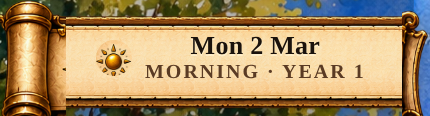
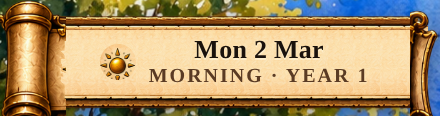
Put carved scroll work on top of the parchment.
Punch the paper out of the rollers and rails so those sit over a real
parchment layer, with the date, Journal, and place labels written on
that paper in the window.

diff --git a/index.html b/index.html
@@ -436,23 +436,23 @@ button,select{font-family:system-ui;background:#6a5949;color:#fff;border-color:#
 <section id="visualShell">
   <div class="worldTopbar">
     <button type="button" id="advanceTime" class="scrollPlaque" aria-label="Pass time">
-      <img class="scrollCap scrollCap-left" src="./assets/ui/date_frame_left.png" alt="">
-      <span class="scrollWell">
+      <span class="scrollPaper">
         <img class="scrollSun" src="./assets/ui/date_frame_probe_sun.png" alt="">
         <span class="scrollCopy"><b id="visualDate">Monday, 2 March · Year 1</b><span id="visualPhase" class="small">Morning</span></span>
-        <span class="scrollFrame" aria-hidden="true"></span>
       </span>
-      <img class="scrollCap scrollCap-right" src="./assets/ui/date_frame_right.png" alt="">
+      <img class="scrollCap scrollCap-left" src="./assets/ui/date_frame_left_cutout.png" alt="">
+      <span class="scrollRail" aria-hidden="true"></span>
+      <img class="scrollCap scrollCap-right" src="./assets/ui/date_frame_right_cutout.png" alt="">
     </button>
     <div class="worldActions">
       <button id="worldRecord" class="scrollPlaque scrollPlaque-sm" type="button" aria-label="Open journal">
-        <img class="scrollCap scrollCap-left" src="./assets/ui/date_frame_left.png" alt="">
-        <span class="scrollWell">
+        <span class="scrollPaper">
           <span id="worldRecordLabel">Journal</span>
           <span id="worldRecordBadge" class="worldRecordBadge hidden"></span>
-          <span class="scrollFrame" aria-hidden="true"></span>
         </span>
-        <img class="scrollCap scrollCap-right" src="./assets/ui/date_frame_right.png" alt="">
+        <img class="scrollCap scrollCap-left" src="./assets/ui/date_frame_left_cutout.png" alt="">
+        <span class="scrollRail" aria-hidden="true"></span>
+        <img class="scrollCap scrollCap-right" src="./assets/ui/date_frame_right_cutout.png" alt="">
       </button>
     </div>
   </div>
@@ -470,15 +470,15 @@ button,select{font-family:system-ui;background:#6a5949;color:#fff;border-color:#
     <button id="eventHotspot" class="worldObject eventHotspot hidden">Saturday Open</button>
   </div>
   <nav class="locationStrip scrollPlaque scrollPlaque-wide" id="locationStrip" aria-label="Lythmere locations">
-    <img class="scrollCap scrollCap-left" src="./assets/ui/date_frame_left.png" alt="">
-    <div class="scrollWell locationWell">
+    <div class="scrollPaper locationWell">
       <button type="button" data-loc="Market">Market</button>
       <button type="button" data-loc="Riverside">Riverside</button>
       <button type="button" data-loc="Inn">Inn</button>
       <button type="button" data-loc="Card Club" title="Card Club">Club</button>
-      <span class="scrollFrame" aria-hidden="true"></span>
     </div>
-    <img class="scrollCap scrollCap-right" src="./assets/ui/date_frame_right.png" alt="">
+    <img class="scrollCap scrollCap-left" src="./assets/ui/date_frame_left_cutout.png" alt="">
+    <span class="scrollRail" aria-hidden="true"></span>
+    <img class="scrollCap scrollCap-right" src="./assets/ui/date_frame_right_cutout.png" alt="">
   </nav>
   <div id="worldStatus" class="worldStatus"></div>
 <div id="noticeOverlay" class="noticeOverlay hidden">
@@ -10359,58 +10359,88 @@ body[data-saturday-open="1"] .locationStrip [data-loc="Card Club"]{
 }
 </style>
 <style>
-/* v96 — town banners sit on top of the writing. Paper + copy stay in the
-   window; carved rails overlay that window as a cutout. Rollers tuck over
-   the paper ends so the well is not a box sitting on the scroll. */
-#visualShell .scrollPlaque{--scroll-h:74px}
-#visualShell #worldRecord.scrollPlaque{--scroll-h:58px}
-#visualShell .scrollCap.scrollCap-left{
-  margin-right:calc(var(--scroll-h) * -.14)!important;
-  z-index:5!important;
+/* v96 — parchment is behind; writing sits on it; carved scroll work overlays
+   as a cutout. Roller art has the paper punched out so the frame is on top. */
+#visualShell .scrollPlaque{
+  --scroll-h:74px;
+  position:relative!important;
 }
-#visualShell .scrollCap.scrollCap-right{
-  margin-left:calc(var(--scroll-h) * -.10)!important;
-  z-index:5!important;
+#visualShell .locationStrip.scrollPlaque{
+  position:absolute!important;
 }
-#visualShell .scrollWell{
+#visualShell #worldRecord.scrollPlaque{
+  --scroll-h:58px;
+  min-width:128px!important;
+}
+#visualShell .scrollPaper{
+  position:absolute!important;
   z-index:0!important;
+  top:22%!important;
+  bottom:16%!important;
+  left:calc(var(--scroll-h) * .30)!important;
+  right:calc(var(--scroll-h) * .10)!important;
+  display:flex!important;
+  flex-direction:row!important;
+  align-items:center!important;
+  justify-content:center!important;
+  gap:6px!important;
+  margin:0!important;
+  padding:0 calc(var(--scroll-h) * .12) 0 calc(var(--scroll-h) * .18)!important;
+  min-width:0!important;
+  height:auto!important;
+  background-color:#f3d9a8!important;
+  background-image:url("./assets/ui/date_frame_paper.png")!important;
+  background-repeat:repeat-x!important;
+  background-size:auto 100%!important;
+  background-position:center!important;
+  box-shadow:none!important;
   overflow:hidden!important;
-  background-image:
-    linear-gradient(to bottom,rgba(40,22,8,.28),rgba(40,22,8,0) 26%),
-    linear-gradient(to top,rgba(40,22,8,.20),rgba(40,22,8,0) 22%),
-    url("./assets/ui/date_frame_paper.png")!important;
-  background-repeat:no-repeat,no-repeat,repeat-x!important;
-  background-size:100% 100%,100% 100%,auto 100%!important;
-  background-position:center top,center bottom,center!important;
 }
-#visualShell .scrollWell > *{
+#visualShell .scrollPaper > *{
   position:relative;
   z-index:1;
 }
-#visualShell .scrollFrame{
-  position:absolute!important;
-  inset:0!important;
-  z-index:4!important;
+#visualShell .scrollRail{
+  flex:1 1 auto!important;
+  min-width:0!important;
+  position:relative!important;
+  z-index:3!important;
   pointer-events:none!important;
+  margin:0 calc(var(--scroll-h) * -.06)!important;
+  background-color:transparent!important;
   background-image:url("./assets/ui/date_frame_mid_cutout.png")!important;
   background-repeat:repeat-x!important;
   background-size:auto 100%!important;
   background-position:center!important;
 }
-#visualShell .locationWell > .scrollFrame{
-  grid-area:1/1/-1/-1;
-  width:100%;
-  height:100%;
+#visualShell .scrollCap{
+  position:relative!important;
+  z-index:4!important;
+}
+#visualShell .locationWell.scrollPaper{
+  display:grid!important;
+  grid-template-columns:repeat(4,minmax(0,1fr))!important;
+  align-items:stretch!important;
+  justify-content:stretch!important;
+  gap:0!important;
+  padding:0!important;
+  height:auto!important;
 }
 #visualShell .worldRecordBadge{z-index:6!important}
 #visualShell .locationWell button.active:after{
-  top:26%!important;
+  top:1px!important;
+  width:12px!important;
+  height:12px!important;
+  margin-left:-6px!important;
   z-index:2;
+}
+#visualShell .locationWell button.active{
+  padding-top:14px!important;
 }
 @media(max-width:620px){
   #visualShell .scrollPlaque{--scroll-h:64px}
   #visualShell #advanceTime.scrollPlaque{--scroll-h:58px}
-  #visualShell #worldRecord.scrollPlaque{--scroll-h:50px}
+  #visualShell #worldRecord.scrollPlaque{--scroll-h:50px;min-width:128px!important}
 }
 </style>
 
